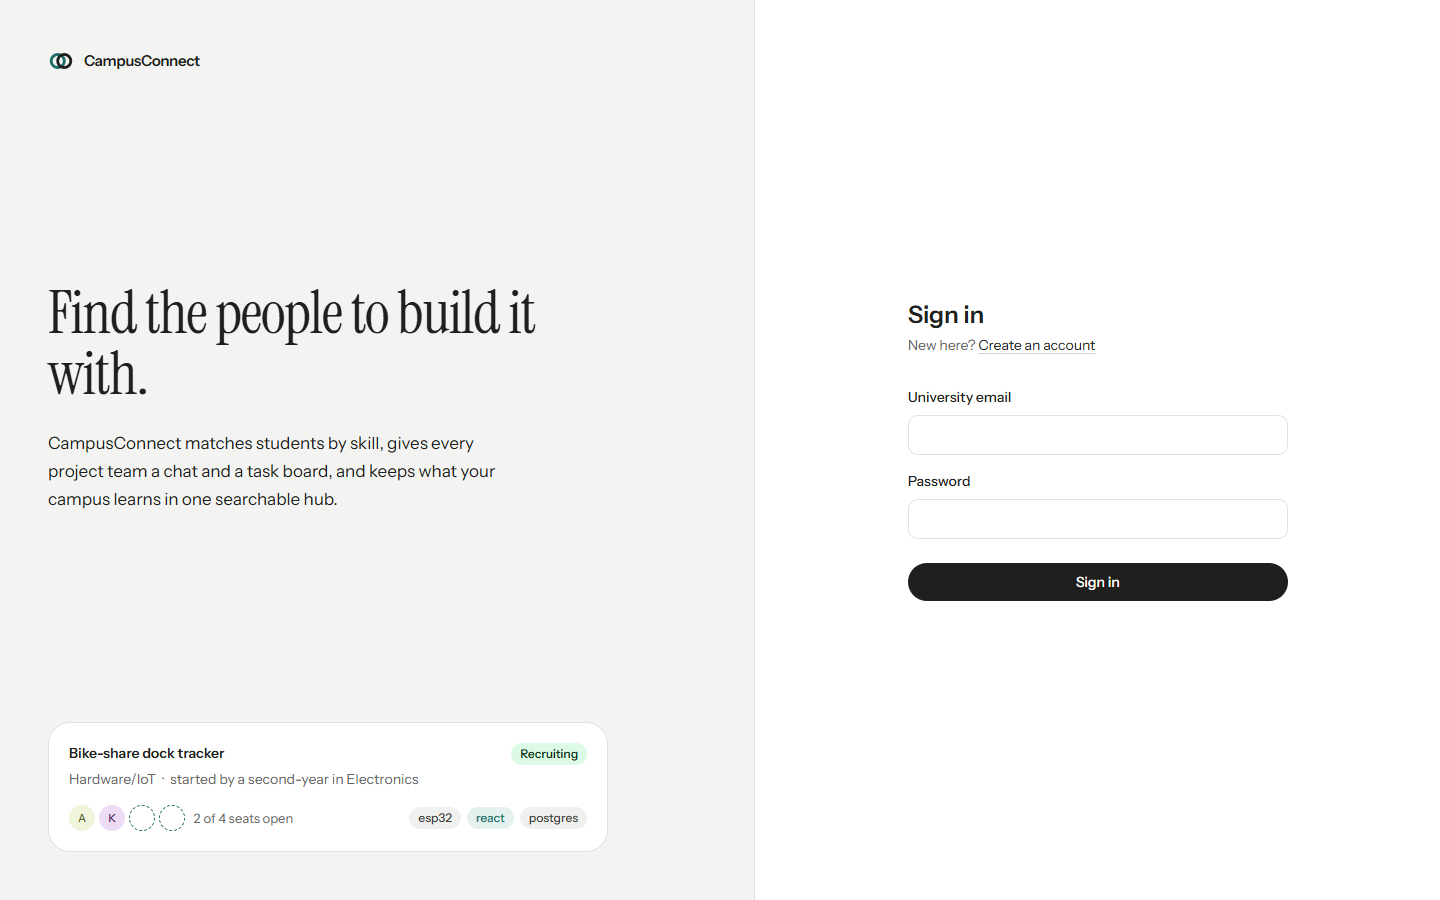
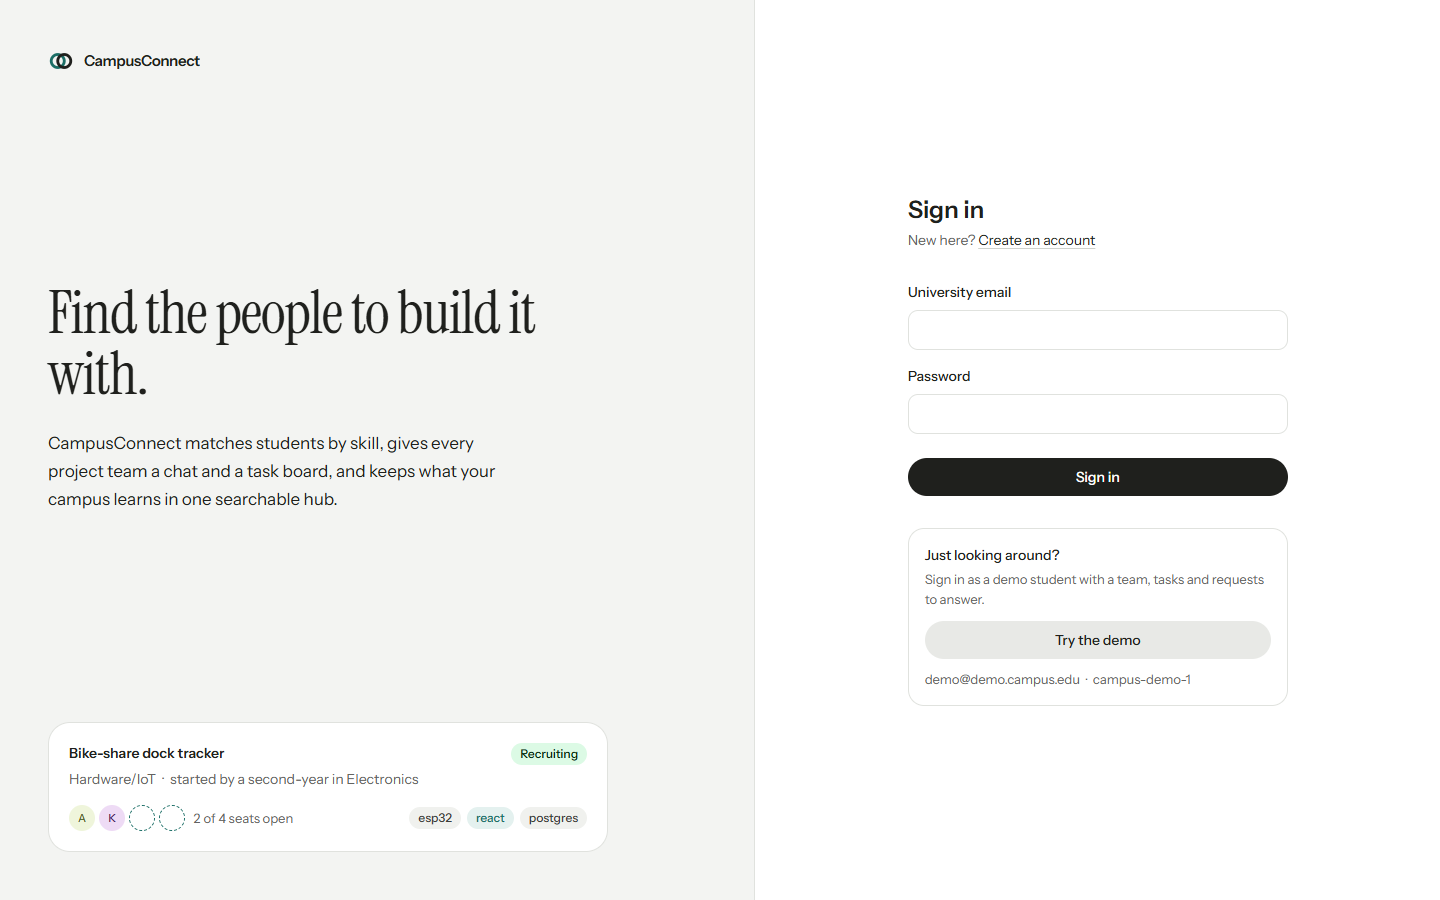
Add a demo account and a "Try the demo" button on the sign-in page
- The seed script gives its main student the fixed demo address
  demo@demo.campus.edu (falling back to the run-suffixed address when it
  is taken), so every fresh deployment has the same demo login.
- With VITE_DEMO_EMAIL and VITE_DEMO_PASSWORD set, the sign-in page shows
  a bordered card that signs straight in as the demo student and shows
  the address and password. Unset, nothing is shown.
- README: the live demo link and its login at the top; demo account and
  the two Vercel settings documented; sign-in screenshot updated.

diff --git a/frontend/src/pages/AuthPage.tsx b/frontend/src/pages/AuthPage.tsx
@@ -3,6 +3,10 @@ import { Link, Navigate, useLocation } from 'react-router-dom'
 import { FieldError, Logo, SeatStrip, Sep, SkillChips } from '../components/ui'
 import { useAuth } from '../lib/auth'
 
+// A public demo shows its demo account on the sign-in page (set both on the host; unset hides the card).
+const DEMO_EMAIL = (import.meta.env.VITE_DEMO_EMAIL as string | undefined)?.trim()
+const DEMO_PASSWORD = (import.meta.env.VITE_DEMO_PASSWORD as string | undefined)?.trim()
+
 /** Sign in and sign up share one screen: what CampusConnect is on the left, the form on the right. */
 export function AuthPage({ mode }: { mode: 'login' | 'register' }) {
   const { user, login, register } = useAuth()
@@ -18,18 +22,27 @@ export function AuthPage({ mode }: { mode: 'login' | 'register' }) {
     return <Navigate to={from} replace />
   }
 
-  async function submit(e: FormEvent) {
-    e.preventDefault()
+  async function run(action: () => Promise<void>) {
     setBusy(true)
     setError(null)
     try {
-      if (mode === 'login') await login(email, password)
-      else await register(fullName, email, password)
+      await action()
     } catch (err) {
       setError(err)
     } finally {
       setBusy(false)
     }
+  }
+
+  function submit(e: FormEvent) {
+    e.preventDefault()
+    void run(() => (mode === 'login' ? login(email, password) : register(fullName, email, password)))
+  }
+
+  function tryDemo() {
+    setEmail(DEMO_EMAIL!)
+    setPassword(DEMO_PASSWORD!)
+    void run(() => login(DEMO_EMAIL!, DEMO_PASSWORD!))
   }
 
   const isLogin = mode === 'login'
@@ -119,6 +132,21 @@ export function AuthPage({ mode }: { mode: 'login' | 'register' }) {
           <button type="submit" className="btn btn-primary mt-6 w-full" disabled={busy}>
             {busy ? 'One moment…' : isLogin ? 'Sign in' : 'Create account'}
           </button>
+
+          {isLogin && DEMO_EMAIL && DEMO_PASSWORD && (
+            <div className="mt-8 rounded-2xl border border-line bg-raised p-4">
+              <p className="font-medium">Just looking around?</p>
+              <p className="mt-1 text-[13px] text-muted">Sign in as a demo student with a team, tasks and requests to answer.</p>
+              <button type="button" className="btn btn-secondary mt-3 w-full" disabled={busy} onClick={tryDemo}>
+                Try the demo
+              </button>
+              <p className="mt-2.5 text-[13px] text-muted">
+                {DEMO_EMAIL}
+                <Sep />
+                {DEMO_PASSWORD}
+              </p>
+            </div>
+          )}
         </form>
       </section>
     </div>

diff --git a/README.md b/README.md
@@ -2,6 +2,10 @@
 
 > Find the people to build it with: teammates by skill, team workspaces and a campus knowledge hub.
 
+**Live demo: [campusconnect-tn.vercel.app](https://campusconnect-tn.vercel.app)**. Click **Try the demo** on the sign-in
+page, or sign in with `demo@demo.campus.edu` and password `campus-demo-1`. The server sleeps when nobody has visited for a
+while, so the first page can take up to a minute.
+
 ![CampusConnect home page](docs/screenshots/home.png)
 
 CampusConnect helps students turn an idea into a team. **Students** list their skills and find projects with a free
@@ -107,12 +111,13 @@ of moving to another one. To run the frontend in Docker instead: `docker compose
 
 ### Demo accounts
 
-Password for all: `campus-demo-1`. Each run of the seed script makes a new set with its own short code in the email,
-`<name>.<code>@demo.campus.edu`; the script prints the code with Kavya's address.
+Password for all: `campus-demo-1`. The main student is the demo account, `demo@demo.campus.edu`; the others have a
+short code from the seed run in their address, `<name>.<code>@demo.campus.edu`, and the script prints it. (Running the
+script again makes a second set, with the main student at `kavya.<code>@demo.campus.edu`.)
 
 | Student | Who | Good for trying |
 |---|---|---|
-| `kavya.<code>@demo.campus.edu` | Kavya, third-year CS, web and data | Owner of Bike-share dock tracker with a request waiting; Home, inbox, workspace |
+| `demo@demo.campus.edu` | Kavya, third-year CS, web and data | Owner of Bike-share dock tracker with a request waiting; Home, inbox, workspace |
 | `kugan.<code>@demo.campus.edu` | Kugan, embedded systems and IoT | Member of the Bike-share team, hub author |
 | `ramesh.<code>@demo.campus.edu` | Ramesh, backend in Java and Go | Owner of Library study-room finder |
 
@@ -156,7 +161,8 @@ A free public deployment: frontend on **Vercel**, API on **Render** (Docker), da
    If you don't know the Vercel address yet, put a placeholder and change it on Render's Environment page after step 3.
 3. **Vercel:** Add New → Project → this repository, Root Directory `frontend` (it reads
    [`frontend/vercel.json`](frontend/vercel.json)), with the environment variable
-   `VITE_API_URL=https://<render-service>.onrender.com`.
+   `VITE_API_URL=https://<render-service>.onrender.com`. For a public demo, also set `VITE_DEMO_EMAIL=demo@demo.campus.edu`
+   and `VITE_DEMO_PASSWORD=campus-demo-1`: the sign-in page then offers **Try the demo**.
 4. **Demo data (optional):** `node scripts/seed-demo.mjs https://<render-service>.onrender.com`.
 5. **Emails (optional):** host n8n (n8n Cloud or a small Docker host), import the workflows as in
    [Automation](#automation-n8n), change `http://backend:8080` in their three HTTP Request nodes to the Render address,
@@ -189,7 +195,7 @@ Locally in `backend/.env` (see [`backend/.env.example`](backend/.env.example)); 
 | `GITHUB_WEBHOOK_SECRET` | GitHub feed | The secret entered in the repository's webhook settings |
 
 Frontend: `VITE_API_URL` (production builds only) is the backend's public address; in development Vite proxies `/api`
-and `/ws`.
+and `/ws`. `VITE_DEMO_EMAIL` and `VITE_DEMO_PASSWORD` show a demo account on the sign-in page (unset hides it).
 
 ## Automation (n8n)
 
